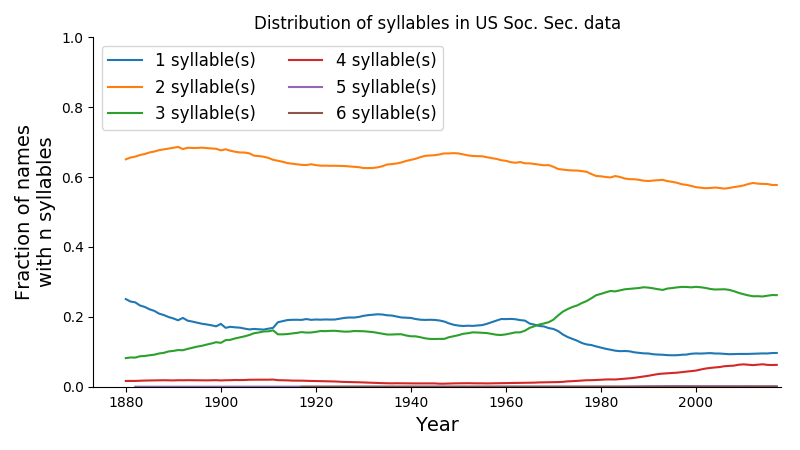
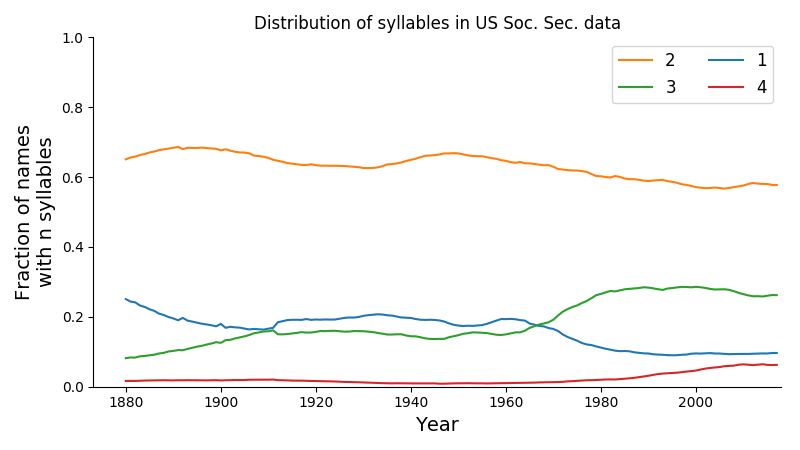
Fix order for stress

diff --git a/A1_plot_stress.py b/A1_plot_stress.py
@@ -1,0 +1,96 @@
+import glob, os
+import numpy as np
+import pandas as pd
+import seaborn as sns
+import pylab as plt
+F_DATA = sorted(glob.glob("data/scored_names/*.csv"))[::-1]#[:20]
+
+
+fixed_n_syllables = 2
+
+named_patterns = {
+    "00": "pyrrhic",
+    "01": "iambic",
+    "10": "trochee",
+    "11": "spondee",
+    "000": "tribrach",
+    "100": "dactyl",
+    "010": "amphibrach",
+    "001": "anapaest",
+    "011": "bacchius",
+    "110": "antibacchius",
+    "101": "cretic",
+    "111": "molossus",
+    "0010": "terius paeon",
+    "0100": "secundus paeon",
+    "1010": "ditrochee",
+    "1100": "major ionic",
+}
+
+
+data = []
+for f in F_DATA:
+    print(f)
+    cols = "counts", "IPA_stress", "n_syllables"
+    df = pd.read_csv(f,usecols=cols,dtype={"IPA_stress":str})
+
+    df = df[df['n_syllables']==fixed_n_syllables]
+
+    # Drop names without any stress
+    idx = df.IPA_stress.str.count("0") == df.n_syllables
+    df = df[~idx]
+
+    df["counts"] /= df["counts"].sum()
+    
+    year = int(os.path.basename(f).split('.')[0][3:])
+    g = pd.DataFrame(df.groupby("IPA_stress")["counts"].sum())
+    g['year'] = year
+
+    data.append(g)
+
+key = 'year'
+df = pd.concat(data).sort_values(key)#.reset_index().set_index(key)
+sz = np.array([16.,9.])/2
+
+# Low counts
+mean_value = df.groupby(df.index)['counts'].mean()
+
+df = df.loc[mean_value > 0.01]
+mean_value = df.groupby(df.index)['counts'].mean().sort_values()[::-1]
+
+
+########################################################################
+
+fig, ax = plt.subplots(1,1,figsize=sz)
+
+P = {}
+for key, dfx in df.groupby("IPA_stress"):
+    #if key in named_patterns:
+    #    label = f"{key}, {named_patterns[key]}"
+    #else:
+    #    label = f"{key}"
+    
+    P[key] = plt.plot(dfx.year, dfx['counts'], label=key)
+
+handles, labels = ax.get_legend_handles_labels()
+idx = mean_value.loc[labels].argsort()[::-1]
+labels = np.array(labels)[idx]
+handles = np.array(handles)[idx]
+
+labels = [x if x not in named_patterns else
+           f"{x}, {named_patterns[x]}" for x in labels]
+
+plt.legend(handles, labels, ncol=2, loc='best', fontsize=12)
+
+sns.despine()
+plt.title(f"Stress in {fixed_n_syllables}-syllable names from US Soc. Sec. data")
+plt.xlabel("Year",fontsize=14)
+plt.ylabel("Fraction of names", fontsize=14)
+
+plt.xlim(xmax=2018)
+plt.ylim(0,1)
+plt.tight_layout()
+plt.savefig(f'docs/figures/{fixed_n_syllables}_stress_patterns_per_year.png')
+
+
+plt.show()

diff --git a/A0_plot_syllables.py b/A0_plot_syllables.py
@@ -34,7 +34,6 @@ Y = [dfx.set_index('year').loc[X].values.ravel() for n, dfx in df.groupby("n_syl
 plt.stackplot(X,*Y, baseline='zero')
 '''
 
-
 plt.figure(figsize=sz)
 
 g0 = df.reset_index().groupby(['year','n_syllables'])["counts"].sum()
@@ -56,14 +55,31 @@ plt.savefig('docs/figures/mean_syllables_per_year.png')
 
 ########################################################################
 
-plt.figure(figsize=sz)
+
+# Low counts
+mean_value = df.groupby(df.index)['counts'].mean()
+
+df = df.loc[mean_value > 0.01]
+mean_value = df.groupby(df.index)['counts'].mean().sort_values()[::-1]
+
+fig, ax = plt.subplots(1,1,figsize=sz)
+
 for n, dfx in df.groupby("n_syllables"):
     #totes += dfx.set_index('year')['counts']
-    plt.plot(dfx.year, dfx['counts'], label=f"{n} syllable(s)")
+    plt.plot(dfx.year, dfx['counts'], label=f"{n}")
+
+handles, labels = ax.get_legend_handles_labels()
+idx = mean_value.loc[[int(x) for x in labels]].argsort()[::-1]
+labels = np.array(labels)[idx]
+handles = np.array(handles)[idx]
+
+#labels = [f"{x}, syllables(s)" for x in labels]
+          
 
 
+plt.legend(handles, labels, ncol=2, loc='best', fontsize=12)
 
-plt.legend(ncol=2, loc=2, fontsize=12)
+
 sns.despine()
 plt.title("Distribution of syllables in US Soc. Sec. data")
 plt.xlabel("Year",fontsize=14)
